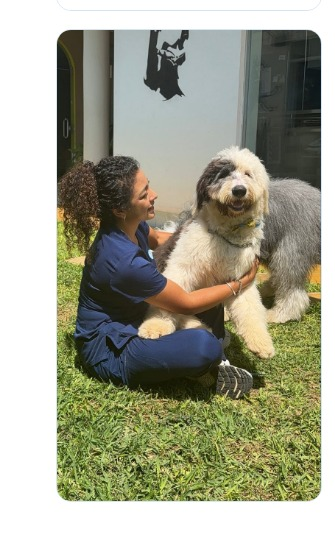
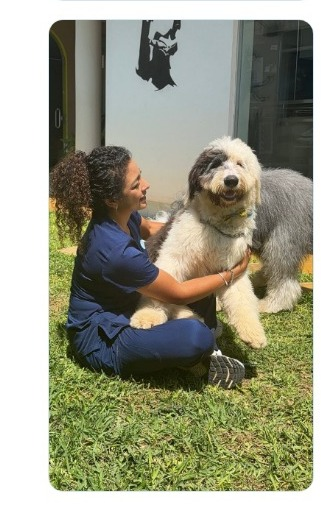
Promociones y beneficios locales; ajustes de la crítica
- Beneficios nuevos (propuestas, sin cifras): chequeo de bienvenida, calendario de vacunas, seguimiento senior
- Hover de tarjetas y galería funciona tras el revelado
- Foto de portada en primer lugar en móvil, recortada sin bordes de captura
- Botón flotante de WhatsApp con contraste AA, foco visible, galería de 8 en móvil
- Textos: '20%' sin espacio, alts descriptivos

diff --git a/index.html b/index.html
@@ -7,7 +7,7 @@
   <meta name="description" content="Clínica Veterinaria Aguirre en Tambo de Mora, Chincha. Baños, vacunas, desparasitaciones, cirugías, chequeos y atención geriátrica para tu mascota.">
   <link rel="preconnect" href="https://fonts.googleapis.com">
   <link rel="preconnect" href="https://fonts.gstatic.com" crossorigin>
-  <link href="https://fonts.googleapis.com/css2?family=Cormorant+Garamond:ital,wght@0,600;0,700;1,600&family=Sora:wght@700;800;900&display=swap" rel="stylesheet">
+  <link href="https://fonts.googleapis.com/css2?family=Cormorant+Garamond:wght@600;700&family=Sora:wght@700;800;900&display=swap" rel="stylesheet">
   <link rel="stylesheet" href="styles.css">
 </head>
 <body>
@@ -45,7 +45,7 @@
           </div>
         </div>
         <div class="hero-visual">
-          <img class="hero-photo" src="assets/photos/veterinaria-perro.jpg" alt="Una veterinaria de Aguirre sonriendo mientras acaricia a un perro en el jardín, sobre el pasto">
+          <img class="hero-photo" src="assets/photos/veterinaria-perro.jpg" alt="Veterinaria acariciando a un perro sobre el pasto del jardín">
           <img class="hero-badge" src="assets/mark.png" alt="" width="96" height="96">
         </div>
       </div>
@@ -92,13 +92,37 @@
           <h2>Recomiéndanos y ahorra</h2>
           <p class="lead">Aplica a baños, cortes, vacunas y desparasitaciones.</p>
           <ol class="steps">
-            <li><strong>2 referidos</strong> <span>20 % de descuento</span></li>
-            <li><strong>3 referidos</strong> <span>30 % de descuento</span></li>
+            <li><strong>2 referidos</strong> <span>20% de descuento</span></li>
+            <li><strong>3 referidos</strong> <span>30% de descuento</span></li>
           </ol>
           <p class="note">Para participar, etiqueta a tus amigos en los comentarios de nuestra publicación en Instagram.</p>
         </div>
         <div class="promo-visual">
-          <img src="assets/posts/aguirre_post_01.jpg" alt="Publicación de la promoción: 30 % de descuento por recomendarnos" loading="lazy">
+          <img src="assets/posts/aguirre_post_01.jpg" alt="Publicación de la promoción: 30% de descuento por recomendarnos" loading="lazy">
+        </div>
+      </div>
+    </section>
+
+    <!-- Propuestas de beneficios: confirmar con la clínica antes de publicar -->
+    <section class="section section-tight">
+      <div class="container">
+        <header class="section-head">
+          <p class="eyebrow">Beneficios</p>
+          <h2>Más razones para cuidar a tu mascota con nosotros</h2>
+        </header>
+        <div class="perks">
+          <article class="perk">
+            <h3>Chequeo de bienvenida</h3>
+            <p>Para mascotas nuevas en casa: una revisión completa para empezar con buen pie. Consulta por WhatsApp.</p>
+          </article>
+          <article class="perk">
+            <h3>Calendario de vacunas al día</h3>
+            <p>Te ayudamos a ordenar vacunas y desparasitaciones durante todo el año, para que no tengas que recordarlo.</p>
+          </article>
+          <article class="perk">
+            <h3>Seguimiento para perros senior</h3>
+            <p>Controles periódicos para acompañar a tu perro en sus años dorados, con un plan adaptado a su edad.</p>
+          </article>
         </div>
       </div>
     </section>
@@ -111,18 +135,18 @@
           <p><a href="https://www.instagram.com/clinicvetaguirre" target="_blank" rel="noopener">@clinicvetaguirre</a></p>
         </header>
         <div class="gallery">
-          <img src="assets/posts/aguirre_post_02.jpg" alt="Publicación de la clínica" loading="lazy">
-          <img src="assets/posts/aguirre_post_03.jpg" alt="Publicación de la clínica" loading="lazy">
-          <img src="assets/posts/aguirre_post_04.jpg" alt="Publicación de la clínica" loading="lazy">
-          <img src="assets/posts/aguirre_post_05.jpg" alt="Publicación de la clínica" loading="lazy">
-          <img src="assets/posts/aguirre_post_06.jpg" alt="Publicación de la clínica" loading="lazy">
-          <img src="assets/posts/aguirre_post_07.jpg" alt="Publicación de la clínica" loading="lazy">
-          <img src="assets/posts/aguirre_post_08.jpg" alt="Publicación de la clínica" loading="lazy">
-          <img src="assets/posts/aguirre_post_09.jpg" alt="Publicación de la clínica" loading="lazy">
-          <img src="assets/posts/aguirre_post_10.jpg" alt="Publicación de la clínica" loading="lazy">
-          <img src="assets/posts/aguirre_post_11.jpg" alt="Publicación de la clínica" loading="lazy">
-          <img src="assets/posts/aguirre_post_12.jpg" alt="Publicación de la clínica" loading="lazy">
-          <img src="assets/posts/aguirre_post_13.jpg" alt="Publicación de la clínica" loading="lazy">
+          <img src="assets/posts/aguirre_post_02.jpg" alt="Publicación 1 de Instagram de la clínica" loading="lazy">
+          <img src="assets/posts/aguirre_post_03.jpg" alt="Publicación 2 de Instagram de la clínica" loading="lazy">
+          <img src="assets/posts/aguirre_post_04.jpg" alt="Publicación 3 de Instagram de la clínica" loading="lazy">
+          <img src="assets/posts/aguirre_post_05.jpg" alt="Publicación 4 de Instagram de la clínica" loading="lazy">
+          <img src="assets/posts/aguirre_post_06.jpg" alt="Publicación 5 de Instagram de la clínica" loading="lazy">
+          <img src="assets/posts/aguirre_post_07.jpg" alt="Publicación 6 de Instagram de la clínica" loading="lazy">
+          <img src="assets/posts/aguirre_post_08.jpg" alt="Publicación 7 de Instagram de la clínica" loading="lazy">
+          <img src="assets/posts/aguirre_post_09.jpg" alt="Publicación 8 de Instagram de la clínica" loading="lazy">
+          <img src="assets/posts/aguirre_post_10.jpg" alt="Publicación 9 de Instagram de la clínica" loading="lazy">
+          <img src="assets/posts/aguirre_post_11.jpg" alt="Publicación 10 de Instagram de la clínica" loading="lazy">
+          <img src="assets/posts/aguirre_post_12.jpg" alt="Publicación 11 de Instagram de la clínica" loading="lazy">
+          <img src="assets/posts/aguirre_post_13.jpg" alt="Publicación 12 de Instagram de la clínica" loading="lazy">
         </div>
       </div>
     </section>
@@ -146,7 +170,7 @@
   </main>
 
   <footer class="site-footer">
-    <div class="grass grass-foot" aria-hidden="true"><svg viewBox="0 0 1440 120" preserveAspectRatio="none"><rect x="0" y="92" width="1440" height="28" fill="#2f7f3a"/><path class="blade" fill="#2f7f3a" style="--dur:3.6s;--delay:-0.0s" d="M10 120 Q20 82.05 12.0 51 Q3.0 85.5 0 120Z"/><path class="blade" fill="#3f9b4a" style="--dur:4.0s;--delay:-0.5s" d="M52 120 Q63 83.69999999999999 54.2 54 Q44.3 87.0 41 120Z"/><path class="blade" fill="#56b35e" style="--dur:4.4s;--delay:-1.0s" d="M86 120 Q97 95.25 88.2 75 Q78.3 97.5 75 120Z"/><path class="blade" fill="#2b7a36" style="--dur:4.8s;--delay:-1.5s" d="M137 120 Q148 79.3 139.2 46 Q129.3 83.0 126 120Z"/><path class="blade" fill="#6cc275" style="--dur:5.2s;--delay:-2.0s" d="M169 120 Q179 98.0 171.0 80 Q162.0 100.0 159 120Z"/><path class="blade" fill="#2f7f3a" style="--dur:3.6s;--delay:-2.5s" d="M215 120 Q222 96.35 216.4 77 Q210.1 98.5 208 120Z"/><path class="blade" fill="#3f9b4a" style="--dur:4.0s;--delay:-3.0s" d="M249 120 Q259 80.4 251.0 48 Q242.0 84.0 239 120Z"/><path class="blade" fill="#56b35e" style="--dur:4.4s;--delay:-0.0s" d="M304 120 Q316 78.75 306.4 45 Q295.6 82.5 292 120Z"/><path class="blade" fill="#2b7a36" style="--dur:4.8s;--delay:-0.5s" d="M337 120 Q344 79.85 338.4 47 Q332.1 83.5 330 120Z"/><path class="blade" fill="#6cc275" style="--dur:5.2s;--delay:-1.0s" d="M390 120 Q397 99.1 391.4 82 Q385.1 101.0 383 120Z"/><path class="blade" fill="#2f7f3a" style="--dur:3.6s;--delay:-1.5s" d="M417 120 Q425 94.7 418.6 74 Q411.4 97.0 409 120Z"/><path class="blade" fill="#3f9b4a" style="--dur:4.0s;--delay:-2.0s" d="M458 120 Q468 74.35 460.0 37 Q451.0 78.5 448 120Z"/><path class="blade" fill="#56b35e" style="--dur:4.4s;--delay:-2.5s" d="M510 120 Q521 85.9 512.2 58 Q502.3 89.0 499 120Z"/><path class="blade" fill="#2b7a36" style="--dur:4.8s;--delay:-3.0s" d="M548 120 Q556 83.15 549.6 53 Q542.4 86.5 540 120Z"/><path class="blade" fill="#6cc275" style="--dur:5.2s;--delay:-0.0s" d="M593 120 Q600 84.25 594.4 55 Q588.1 87.5 586 120Z"/><path class="blade" fill="#2f7f3a" style="--dur:3.6s;--delay:-0.5s" d="M628 120 Q640 85.35 630.4 57 Q619.6 88.5 616 120Z"/><path class="blade" fill="#3f9b4a" style="--dur:4.0s;--delay:-1.0s" d="M676 120 Q687 87.0 678.2 60 Q668.3 90.0 665 120Z"/><path class="blade" fill="#56b35e" style="--dur:4.4s;--delay:-1.5s" d="M712 120 Q721 76.55 713.8 41 Q705.7 80.5 703 120Z"/><path class="blade" fill="#2b7a36" style="--dur:4.8s;--delay:-2.0s" d="M762 120 Q770 74.9 763.6 38 Q756.4 79.0 754 120Z"/><path class="blade" fill="#6cc275" style="--dur:5.2s;--delay:-2.5s" d="M810 120 Q817 91.4 811.4 68 Q805.1 94.0 803 120Z"/><path class="blade" fill="#2f7f3a" style="--dur:3.6s;--delay:-3.0s" d="M838 120 Q845 81.5 839.4 50 Q833.1 85.0 831 120Z"/><path class="blade" fill="#3f9b4a" style="--dur:4.0s;--delay:-0.0s" d="M890 120 Q899 98.0 891.8 80 Q883.7 100.0 881 120Z"/><path class="blade" fill="#56b35e" style="--dur:4.4s;--delay:-0.5s" d="M932 120 Q939 99.1 933.4 82 Q927.1 101.0 925 120Z"/><path class="blade" fill="#2b7a36" style="--dur:4.8s;--delay:-1.0s" d="M962 120 Q970 94.15 963.6 73 Q956.4 96.5 954 120Z"/><path class="blade" fill="#6cc275" style="--dur:5.2s;--delay:-1.5s" d="M1005 120 Q1015 84.8 1007.0 56 Q998.0 88.0 995 120Z"/><path class="blade" fill="#2f7f3a" style="--dur:3.6s;--delay:-2.0s" d="M1058 120 Q1065 87.0 1059.4 60 Q1053.1 90.0 1051 120Z"/><path class="blade" fill="#3f9b4a" style="--dur:4.0s;--delay:-2.5s" d="M1094 120 Q1106 74.35 1096.4 37 Q1085.6 78.5 1082 120Z"/><path class="blade" fill="#56b35e" style="--dur:4.4s;--delay:-3.0s" d="M1138 120 Q1145 89.75 1139.4 65 Q1133.1 92.5 1131 120Z"/><path class="blade" fill="#2b7a36" style="--dur:4.8s;--delay:-0.0s" d="M1181 120 Q1188 89.75 1182.4 65 Q1176.1 92.5 1174 120Z"/><path class="blade" fill="#6cc275" style="--dur:5.2s;--delay:-0.5s" d="M1227 120 Q1234 74.9 1228.4 38 Q1222.1 79.0 1220 120Z"/><path class="blade" fill="#2f7f3a" style="--dur:3.6s;--delay:-1.0s" d="M1260 120 Q1272 93.05 1262.4 71 Q1251.6 95.5 1248 120Z"/><path class="blade" fill="#3f9b4a" style="--dur:4.0s;--delay:-1.5s" d="M1301 120 Q1308 101.3 1302.4 86 Q1296.1 103.0 1294 120Z"/><path class="blade" fill="#56b35e" style="--dur:4.4s;--delay:-2.0s" d="M1354 120 Q1364 73.25 1356.0 35 Q1347.0 77.5 1344 120Z"/><path class="blade" fill="#2b7a36" style="--dur:4.8s;--delay:-2.5s" d="M1387 120 Q1398 77.65 1389.2 43 Q1379.3 81.5 1376 120Z"/></svg></div>
+    <div class="grass grass-foot" aria-hidden="true"><svg viewBox="0 0 1440 120" preserveAspectRatio="none"><rect x="0" y="92" width="1440" height="28" fill="#2f7f3a"/><path class="blade" fill="#2f7f3a" style="--dur:3.8s;--delay:-0.0s" d="M19 120 Q29 94.7 21.0 74 Q12.0 97.0 9 120Z"/><path class="blade" fill="#3f9b4a" style="--dur:4.2s;--delay:-0.5s" d="M100 120 Q108 85.35 101.6 57 Q94.4 88.5 92 120Z"/><path class="blade" fill="#56b35e" style="--dur:4.6s;--delay:-1.0s" d="M174 120 Q182 95.25 175.6 75 Q168.4 97.5 166 120Z"/><path class="blade" fill="#2b7a36" style="--dur:5.0s;--delay:-1.5s" d="M245 120 Q255 99.65 247.0 83 Q238.0 101.5 235 120Z"/><path class="blade" fill="#6cc275" style="--dur:3.8s;--delay:-2.0s" d="M335 120 Q346 95.25 337.2 75 Q327.3 97.5 324 120Z"/><path class="blade" fill="#2f7f3a" style="--dur:4.2s;--delay:-2.5s" d="M417 120 Q429 100.2 419.4 84 Q408.6 102.0 405 120Z"/><path class="blade" fill="#3f9b4a" style="--dur:4.6s;--delay:-0.0s" d="M487 120 Q496 103.5 488.8 90 Q480.7 105.0 478 120Z"/><path class="blade" fill="#56b35e" style="--dur:5.0s;--delay:-0.5s" d="M573 120 Q582 94.15 574.8 73 Q566.7 96.5 564 120Z"/><path class="blade" fill="#2b7a36" style="--dur:3.8s;--delay:-1.0s" d="M652 120 Q660 98.0 653.6 80 Q646.4 100.0 644 120Z"/><path class="blade" fill="#6cc275" style="--dur:4.2s;--delay:-1.5s" d="M724 120 Q736 82.05 726.4 51 Q715.6 85.5 712 120Z"/><path class="blade" fill="#2f7f3a" style="--dur:4.6s;--delay:-2.0s" d="M814 120 Q823 99.1 815.8 82 Q807.7 101.0 805 120Z"/><path class="blade" fill="#3f9b4a" style="--dur:5.0s;--delay:-2.5s" d="M880 120 Q889 103.5 881.8 90 Q873.7 105.0 871 120Z"/><path class="blade" fill="#56b35e" style="--dur:3.8s;--delay:-0.0s" d="M966 120 Q975 98.0 967.8 80 Q959.7 100.0 957 120Z"/><path class="blade" fill="#2b7a36" style="--dur:4.2s;--delay:-0.5s" d="M1049 120 Q1058 92.5 1050.8 70 Q1042.7 95.0 1040 120Z"/><path class="blade" fill="#6cc275" style="--dur:4.6s;--delay:-1.0s" d="M1137 120 Q1146 81.5 1138.8 50 Q1130.7 85.0 1128 120Z"/><path class="blade" fill="#2f7f3a" style="--dur:5.0s;--delay:-1.5s" d="M1205 120 Q1216 96.9 1207.2 78 Q1197.3 99.0 1194 120Z"/><path class="blade" fill="#3f9b4a" style="--dur:3.8s;--delay:-2.0s" d="M1289 120 Q1299 102.95 1291.0 89 Q1282.0 104.5 1279 120Z"/><path class="blade" fill="#56b35e" style="--dur:4.2s;--delay:-2.5s" d="M1373 120 Q1382 98.0 1374.8 80 Q1366.7 100.0 1364 120Z"/></svg></div>
     <div class="container">
       <p><strong>Clínica Veterinaria Aguirre</strong> · Calle Chorrillos 209, Tambo de Mora, Chincha</p>
       <p>© 2026 Clínica Veterinaria Aguirre. Todos los derechos reservados.</p>
